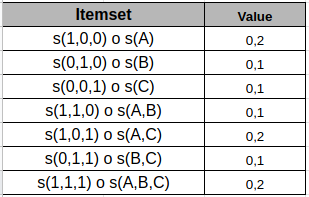
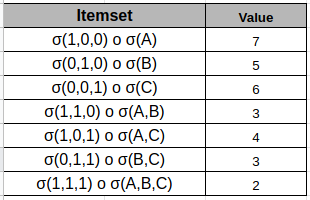
acomodo las tablas de soporte

Changed region(s): [[0.0, 0.0, 1.0, 1.0]]

diff --git a/TP05/parte_3/README.md b/TP05/parte_3/README.md
@@ -23,8 +23,11 @@ Cantidad de ocurrencias de cada itemset del dataset:
 **Support Count (σ)**
 ![support_count](https://raw.githubusercontent.com/AgustinNormand/bases-de-datos-masivas/main/TP05/parte_3/imagenes/support_count.png)
 
-Fraccion de transacciones que contienen a cada itemset del dataset:
+
+Fraccion de transacciones que contienen a un determinado itemset, evaluado para todos los itemset del dataset.
 
 **Support (s)**
 ![support](https://raw.githubusercontent.com/AgustinNormand/bases-de-datos-masivas/main/TP05/parte_3/imagenes/support.png)
+
+#### b. Arme  todas  las  reglas  resultantes  considerando  que  se  solicita  un soporte mínimo de 0,3. 
 
